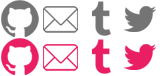
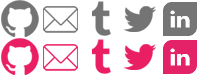
Added LinkedIn

diff --git a/assets/css/main.css b/assets/css/main.css
@@ -1,1 +1,1 @@
-@import url(//cdnjs.cloudflare.com/ajax/libs/normalize/3.0.3/normalize.min.css);a,em{color:#dd2a67}a,ins{text-decoration:none}.project_list li.active::before,.project_list li::before,body>main h2::after{content:''}html{-webkit-user-select:none;-moz-user-select:none;-ms-user-select:none;user-select:none}a,br,figcaption,h1,h2,h3,h4,h5,h6,li,p,td{-webkit-user-select:text;-moz-user-select:text;-ms-user-select:text;user-select:text}::-moz-selection{background:#dd2a67;color:#fff}::selection{background:#dd2a67;color:#fff}:focus{outline-style:none}h1,h2,h3,h4,h5,h6{font-weight:400;font-family:Arial,sans-serif;color:#252525;margin:0 3vw;text-align:center;text-transform:uppercase}figcaption,li,p,td{font-family:futura-pt,arial,sans-serif}figure{margin:0 40px}section{text-align:center;margin-bottom:50px}h3{letter-spacing:2px;margin-top:10px;margin-bottom:10px}body>main h2{margin:50px auto 30px;font-size:1.25rem;letter-spacing:.25em;position:relative;display:inline-block;width:auto}body>main h2::after{bottom:-25px;position:absolute;display:block;height:1px;width:90%;left:5%;background-color:#252525}p{font-size:1.1rem;line-height:1.45;color:#252525}a{font-weight:700;letter-spacing:.6px}a:hover{color:#bf1f55}em{font-style:normal}ul.list{list-style:square;font-size:1.15rem;line-height:1.3;padding-left:20px}ul.list ul{padding-top:2px;padding-left:20px;list-style:none}ul.list li{padding-bottom:5px}ul{margin:0;padding:0}.columns>.column,.columns>.column p,.columns>.column ul{margin-left:3vw;margin-right:3vw}.columns{display:-webkit-flex;display:-ms-flexbox;display:flex;-webkit-flex-wrap:wrap;-ms-flex-wrap:wrap;flex-wrap:wrap;-webkit-justify-content:center;-ms-flex-pack:center;justify-content:center}.columns>.column{min-width:320px;max-width:600px;margin-top:50px;line-height:22px;-webkit-flex:1;-ms-flex:1;flex:1;text-align:left}.columns>.column ul ul{margin:0}.button{text-align:center;width:160px;text-transform:uppercase;display:block;color:#fff;padding:20px 0}.button.large{width:300px;min-height:88px}a.button,button.button,input.button{font-weight:400;border:2px solid #dd2a67;color:#dd2a67;background-color:transparent;position:relative;overflow:hidden;transition:color .5s}a.button::after,button.button::after,input.button::after{content:'';display:block;width:100%;height:100%;position:absolute;top:100%;left:0;z-index:-1;transition:top .3s;background-color:#dd2a67}a.button:hover,button.button:hover,input.button:hover{color:#fff}a.button:hover::after,button.button:hover::after,input.button:hover::after{top:0}span.button{background-color:#747474;border:2px solid #747474}body.hide{overflow:hidden}.fullscreen{z-index:5;position:fixed;left:0;top:0;width:100vw;height:100vh}#intro,body>footer{background-image:radial-gradient(circle closest-corner at center,#F5F5F5 0,#D9D9D9 100%)}#intro{display:-webkit-flex;display:-ms-flexbox;display:flex;position:relative;-webkit-flex-direction:row;-ms-flex-direction:row;flex-direction:row;-webkit-align-items:center;-ms-flex-align:center;align-items:center;-webkit-justify-content:center;-ms-flex-pack:center;justify-content:center;height:100vh;min-height:300px}#intro .wrapper{margin:15px}#intro .wrapper h1{font-size:3.375rem;text-align:right;letter-spacing:.135em;margin:-.135em 0 0}#intro .wrapper nav{margin-top:40px}#intro .wrapper h2{font-size:.875rem;color:#747474;letter-spacing:1.185em;margin:0 -.985em 0 0;text-align:right}body>footer,nav{text-align:center}#intro .wrapper h2:after{display:none}body>footer{overflow:hidden;display:-webkit-flex;display:-ms-flexbox;display:flex;-webkit-flex-direction:column;-ms-flex-direction:column;flex-direction:column;height:250px}body>footer .wrapper{-webkit-flex:1;-ms-flex:1;flex:1;display:-webkit-flex;display:-ms-flexbox;display:flex;-webkit-align-items:center;-ms-flex-align:center;align-items:center;-webkit-justify-content:center;-ms-flex-pack:center;justify-content:center}.copyleft,nav li,nav li a{display:inline-block}body>footer .wrapper h2{font-weight:700;color:#747474;font-size:.9375rem;letter-spacing:.7em}body>footer p{font-size:.75rem;color:#747474}body>footer p a{color:inherit}nav ul{margin-top:30px}nav li{margin-right:35px}nav li:last-of-type{margin-right:0}nav li a{background-image:url(../../assets/img/icons.png);height:38px;width:40px;font-size:0}nav li a:hover.github{background-position:0 38px}nav li a:hover.email{background-position:-40px 38px}nav li a:hover.tumblr{background-position:-80px 38px}nav li a:hover.twitter{background-position:-120px 38px}nav li a.email{background-position:-40px 0}nav li a.tumblr{background-position:-80px 0}nav li a.twitter{background-position:-120px 0}.copyleft{text-align:right;margin:0;-webkit-transform:scaleX(-1);transform:scaleX(-1);-webkit-filter:FlipH;filter:FlipH;-ms-filter:"FlipH"}#i_me_myself{margin-top:50px}#i_me_myself .columns{-webkit-flex-direction:row-reverse;-ms-flex-direction:row-reverse;flex-direction:row-reverse;position:relative;-webkit-perspective:1000;perspective:1000}#i_me_myself .columns .decorative{display:-webkit-flex;display:-ms-flexbox;display:flex;-webkit-align-items:center;-ms-flex-align:center;align-items:center;-webkit-justify-content:center;-ms-flex-pack:center;justify-content:center}#i_me_myself .columns .presentation{position:relative;transition:-webkit-transform .6s;transition:transform .6s;-webkit-transform-style:preserve-3d;transform-style:preserve-3d}#i_me_myself .columns .presentation.active{-webkit-transform:rotateY(180deg);transform:rotateY(180deg)}#i_me_myself .columns .presentation>*{-webkit-backface-visibility:hidden;backface-visibility:hidden}#i_me_myself .columns .presentation>:last-child{z-index:2;height:100%;-webkit-transform:rotateY(0);transform:rotateY(0)}#i_me_myself .columns .presentation .cv{position:absolute;width:100%;height:100%;-webkit-transform:rotateY(180deg);transform:rotateY(180deg)}body.jscript .project_details:not(.active){display:none}.project_details{margin-bottom:45px}.project_details:nth-of-type(2n+1){-webkit-flex-direction:row-reverse;-ms-flex-direction:row-reverse;flex-direction:row-reverse}.project_details .decorative{display:-webkit-flex;display:-ms-flexbox;display:flex;-webkit-align-items:center;-ms-flex-align:center;align-items:center;-webkit-justify-content:center;-ms-flex-pack:center;justify-content:center;overflow:hidden}.project_details .decorative figcaption{display:none}.project_details .decorative img{max-width:100%}.project_details ul{margin:0!important;text-align:center}.project_details ul li{display:inline-block;margin:7.5px 2.5%}body.noscript .project_list{display:none}.project_list li{font-size:0;background-color:#dd2a67;display:inline-block;width:50px;height:50px;margin:0 5px;position:relative;transition:background-color .5s;cursor:pointer}.project_list li:hover{background-color:#e04077}.project_list li.active{background-color:transparent}.project_list li::before{display:block;width:50px;height:50px;border:2px solid #e45686;opacity:0;position:absolute;left:-2px;top:-2px;-webkit-transform:scale(1.2);transform:scale(1.2);transition:opacity .5s,-webkit-transform .5s;transition:opacity .5s,transform .5s}.project_list li.active::before{opacity:1;-webkit-transform:scale(1.05);transform:scale(1.05)}#project_portfolio canvas{min-height:350px;background:#000106}
+@import url(//cdnjs.cloudflare.com/ajax/libs/normalize/3.0.3/normalize.min.css);a,em{color:#dd2a67}a,ins{text-decoration:none}.project_list li.active::before,.project_list li::before,body>main h2::after{content:''}html{-webkit-user-select:none;-moz-user-select:none;-ms-user-select:none;user-select:none}a,br,figcaption,h1,h2,h3,h4,h5,h6,li,p,td{-webkit-user-select:text;-moz-user-select:text;-ms-user-select:text;user-select:text}::-moz-selection{background:#dd2a67;color:#fff}::selection{background:#dd2a67;color:#fff}:focus{outline-style:none}h1,h2,h3,h4,h5,h6{font-weight:400;font-family:Arial,sans-serif;color:#252525;margin:0 3vw;text-align:center;text-transform:uppercase}figcaption,li,p,td{font-family:futura-pt,arial,sans-serif}figure{margin:0 40px}section{text-align:center;margin-bottom:50px}h3{letter-spacing:2px;margin-top:10px;margin-bottom:10px}body>main h2{margin:50px auto 30px;font-size:1.25rem;letter-spacing:.25em;position:relative;display:inline-block;width:auto}body>main h2::after{bottom:-25px;position:absolute;display:block;height:1px;width:90%;left:5%;background-color:#252525}p{font-size:1.1rem;line-height:1.45;color:#252525}a{font-weight:700;letter-spacing:.6px}a:hover{color:#bf1f55}em{font-style:normal}ul.list{list-style:square;font-size:1.15rem;line-height:1.3;padding-left:20px}ul.list ul{padding-top:2px;padding-left:20px;list-style:none}ul.list li{padding-bottom:5px}ul{margin:0;padding:0}.columns>.column,.columns>.column p,.columns>.column ul{margin-left:3vw;margin-right:3vw}.columns{display:-webkit-flex;display:-ms-flexbox;display:flex;-webkit-flex-wrap:wrap;-ms-flex-wrap:wrap;flex-wrap:wrap;-webkit-justify-content:center;-ms-flex-pack:center;justify-content:center}.columns>.column{min-width:320px;max-width:600px;margin-top:50px;line-height:22px;-webkit-flex:1;-ms-flex:1;flex:1;text-align:left}.columns>.column ul ul{margin:0}.button{text-align:center;width:160px;text-transform:uppercase;display:block;color:#fff;padding:20px 0}.button.large{width:300px;min-height:88px}a.button,button.button,input.button{font-weight:400;border:2px solid #dd2a67;color:#dd2a67;background-color:transparent;position:relative;overflow:hidden;transition:color .5s}a.button::after,button.button::after,input.button::after{content:'';display:block;width:100%;height:100%;position:absolute;top:100%;left:0;z-index:-1;transition:top .3s;background-color:#dd2a67}a.button:hover,button.button:hover,input.button:hover{color:#fff}a.button:hover::after,button.button:hover::after,input.button:hover::after{top:0}span.button{background-color:#747474;border:2px solid #747474}body.hide{overflow:hidden}.fullscreen{z-index:5;position:fixed;left:0;top:0;width:100vw;height:100vh}#intro,body>footer{background-image:radial-gradient(circle closest-corner at center,#F5F5F5 0,#D9D9D9 100%)}#intro{display:-webkit-flex;display:-ms-flexbox;display:flex;position:relative;-webkit-flex-direction:row;-ms-flex-direction:row;flex-direction:row;-webkit-align-items:center;-ms-flex-align:center;align-items:center;-webkit-justify-content:center;-ms-flex-pack:center;justify-content:center;height:100vh;min-height:300px}#intro .wrapper{margin:15px}#intro .wrapper h1{font-size:3.375rem;text-align:right;letter-spacing:.135em;margin:-.135em 0 0}#intro .wrapper nav{margin-top:40px}#intro .wrapper h2{font-size:.875rem;color:#747474;letter-spacing:1.185em;margin:0 -.985em 0 0;text-align:right}body>footer,nav{text-align:center}#intro .wrapper h2:after{display:none}body>footer{overflow:hidden;display:-webkit-flex;display:-ms-flexbox;display:flex;-webkit-flex-direction:column;-ms-flex-direction:column;flex-direction:column;height:250px}body>footer .wrapper{-webkit-flex:1;-ms-flex:1;flex:1;display:-webkit-flex;display:-ms-flexbox;display:flex;-webkit-align-items:center;-ms-flex-align:center;align-items:center;-webkit-justify-content:center;-ms-flex-pack:center;justify-content:center;margin:15px}.copyleft,nav li,nav li a{display:inline-block}body>footer .wrapper h2{font-weight:700;color:#747474;font-size:.9375rem;letter-spacing:.7em}body>footer p{font-size:.75rem;color:#747474}body>footer p a{color:inherit}nav ul{margin-top:30px}nav li{margin-right:17px;margin-left:17px}nav li a{background-image:url(../../assets/img/icons.png);height:38px;width:40px;font-size:0}nav li a:hover.github{background-position:0 38px}nav li a:hover.email{background-position:-40px 38px}nav li a:hover.tumblr{background-position:-80px 38px}nav li a:hover.twitter{background-position:-120px 38px}nav li a:hover.linkedin{background-position:-160px 38px}nav li a.email{background-position:-40px 0}nav li a.tumblr{background-position:-80px 0}nav li a.twitter{background-position:-120px 0}nav li a.linkedin{background-position:-160px 0}.copyleft{text-align:right;margin:0;-webkit-transform:scaleX(-1);transform:scaleX(-1);-webkit-filter:FlipH;filter:FlipH;-ms-filter:"FlipH"}#i_me_myself{margin-top:50px}#i_me_myself .columns{-webkit-flex-direction:row-reverse;-ms-flex-direction:row-reverse;flex-direction:row-reverse;position:relative;-webkit-perspective:1000;perspective:1000}#i_me_myself .columns .decorative{display:-webkit-flex;display:-ms-flexbox;display:flex;-webkit-align-items:center;-ms-flex-align:center;align-items:center;-webkit-justify-content:center;-ms-flex-pack:center;justify-content:center}#i_me_myself .columns .presentation{position:relative;transition:-webkit-transform .6s;transition:transform .6s;-webkit-transform-style:preserve-3d;transform-style:preserve-3d}#i_me_myself .columns .presentation.active{-webkit-transform:rotateY(180deg);transform:rotateY(180deg)}#i_me_myself .columns .presentation>*{-webkit-backface-visibility:hidden;backface-visibility:hidden}#i_me_myself .columns .presentation>:last-child{z-index:2;height:100%;-webkit-transform:rotateY(0);transform:rotateY(0)}#i_me_myself .columns .presentation .cv{position:absolute;width:100%;height:100%;-webkit-transform:rotateY(180deg);transform:rotateY(180deg)}body.jscript .project_details:not(.active){display:none}.project_details{margin-bottom:45px}.project_details:nth-of-type(2n+1){-webkit-flex-direction:row-reverse;-ms-flex-direction:row-reverse;flex-direction:row-reverse}.project_details .decorative{display:-webkit-flex;display:-ms-flexbox;display:flex;-webkit-align-items:center;-ms-flex-align:center;align-items:center;-webkit-justify-content:center;-ms-flex-pack:center;justify-content:center;overflow:hidden}.project_details .decorative figcaption{display:none}.project_details .decorative img{max-width:100%}.project_details ul{margin:0!important;text-align:center}.project_details ul li{display:inline-block;margin:7.5px 2.5%}body.noscript .project_list{display:none}.project_list li{font-size:0;background-color:#dd2a67;display:inline-block;width:50px;height:50px;margin:0 5px;position:relative;transition:background-color .5s;cursor:pointer}.project_list li:hover{background-color:#e04077}.project_list li.active{background-color:transparent}.project_list li::before{display:block;width:50px;height:50px;border:2px solid #e45686;opacity:0;position:absolute;left:-2px;top:-2px;-webkit-transform:scale(1.2);transform:scale(1.2);transition:opacity .5s,-webkit-transform .5s;transition:opacity .5s,transform .5s}.project_list li.active::before{opacity:1;-webkit-transform:scale(1.05);transform:scale(1.05)}#project_portfolio canvas{min-height:350px;background:#000106}

diff --git a/index.html b/index.html
@@ -29,9 +29,10 @@
 		<nav>
 			<ul>
 				<li><a class="github" href="https://github.com/Ephys/">Github</a></li>
-				<li><a class="email" href="mailto:guyliancox@gmail.com">Email</a></li>
 				<li><a class="twitter" href="https://twitter.com/ephyspotato">Twitter</a></li>
+				<li><a class="email" href="mailto:guyliancox@gmail.com">Email</a></li>
 				<li><a class="tumblr" href="http://ephys.tumblr.com/">Tumblr</a></li>
+				<li><a class="linkedin" href="https://be.linkedin.com/in/ephys">LinkedIn</a></li>
 			</ul>
 		</nav>
 	</div>
@@ -211,9 +212,10 @@
 			<h2>Contact Me</h2>
 			<ul>
 				<li><a class="github" href="https://github.com/Ephys/">Github</a></li>
+				<li><a class="tumblr" href="http://ephys.tumblr.com/">Tumblr</a></li>
 				<li><a class="email" href="mailto:guyliancox@gmail.com">Email</a></li>
 				<li><a class="twitter" href="https://twitter.com/ephyspotato">Twitter</a></li>
-				<li><a class="tumblr" href="http://ephys.tumblr.com/">Tumblr</a></li>
+				<li><a class="linkedin" href="https://be.linkedin.com/in/ephys">LinkedIn</a></li>
 			</ul>
 		</nav>
 	</div>

diff --git a/gulpfile.js b/gulpfile.js
@@ -2,22 +2,6 @@
 
 var gulp = require('gulp');
 
-//var tsify = require('tsify');
-//var Browserify = require('browserify');
-//var uglify = require('gulp-uglify');
-//var source = require('vinyl-source-stream');
-//var buffer = require('vinyl-buffer');
-/*gulp.task('browserify', function () {
-	return Browserify({ debug: true })
-		.add('./assets/typescript/main.ts')
-		.plugin(tsify, { noImplicitAny: true, removeComments: true })
-		.bundle()
-		.pipe(source('main.js'))
-		.pipe(buffer())
-		.pipe(uglify())
-		.pipe(gulp.dest('./assets_/js/'));
-});*/
-
 var sass = require('gulp-sass');
 var autoprefixer = require('gulp-autoprefixer');
 var minifyCSS = require('gulp-minify-css');
@@ -38,5 +22,4 @@ gulp.task('css', function() {
 
 gulp.task('watch', function() {
 	gulp.watch('./_assets/css/*.scss', ['css']);
-	//gulp.watch('./assets/typescript/*.ts', ['browserify']);
 });

diff --git a/_assets/css/intro.scss b/_assets/css/intro.scss
@@ -59,6 +59,8 @@ body>footer {
 		align-items: center;
 		justify-content: center;
 
+		margin: 15px;
+
 		h2 {
 			font-weight: bold;
 			color: $textColorSub;
@@ -86,10 +88,8 @@ nav {
 
 	li {
 		display: inline-block;
-		margin-right: 35px;
-		&:last-of-type {
-			margin-right: 0;
-		}
+		margin-right: 17px;
+		margin-left: 17px;
 
 		a {
 			background-image: url('../../assets/img/icons.png');
@@ -115,6 +115,10 @@ nav {
 				&.twitter {
 					background-position: -120px 38px;
 				}
+
+				&.linkedin {
+					background-position: -160px 38px;
+				}
 			}
 
 			&.email {
@@ -127,6 +131,10 @@ nav {
 
 			&.twitter {
 				background-position: -120px 0;
+			}
+
+			&.linkedin {
+				background-position: -160px 0;
 			}
 		}
 	}
